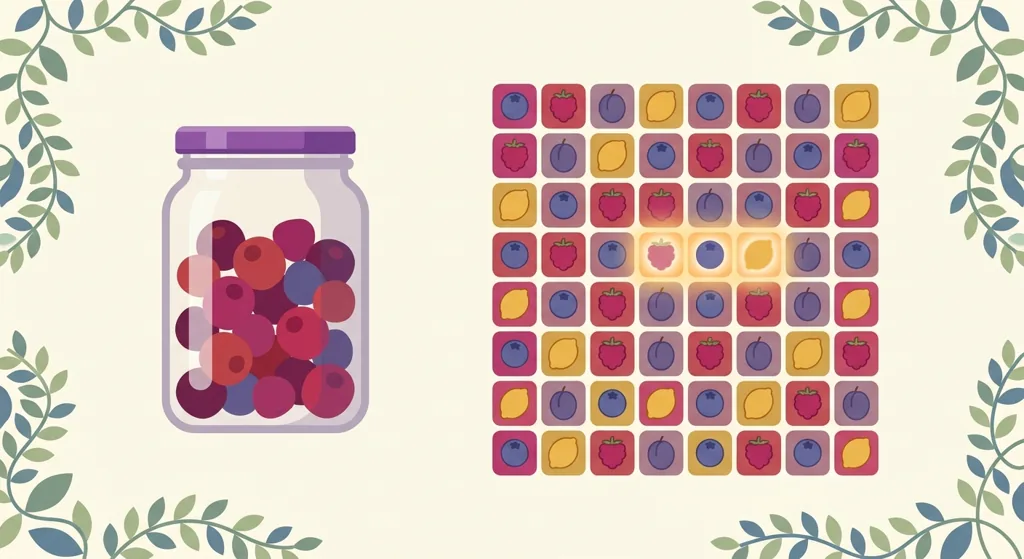
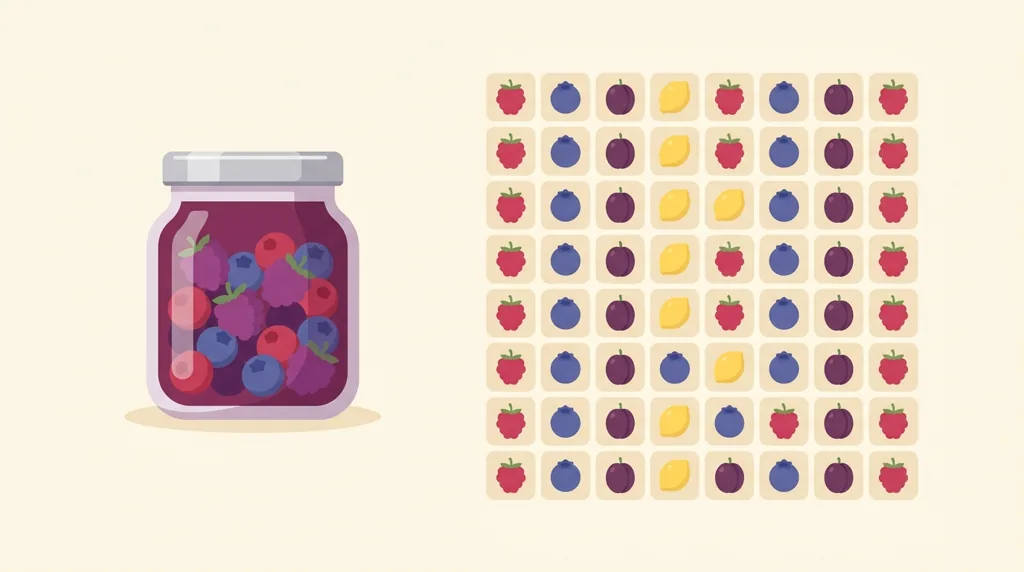
image(jammin-jars): review 2 — score 95 hero PASS
Hero regen (uniform 8x8 grid, no glow/arrow) 95 PASS; applied ALT fix (jar singular + 8×8).
Infographic stays 85 PASS. 06-verification images line finalized.

Claude-Session: https://claude.ai/code/session_01Sf8JcyxDURsaqXRG7UqqVj

diff --git a/VsichkiKazina/articles/2026-09-14-jammin-jars/08-image-review-2.md b/VsichkiKazina/articles/2026-09-14-jammin-jars/08-image-review-2.md
@@ -1,0 +1,31 @@
+# 08 — Image review, pass 2 (regenerated hero)
+
+Regen A (pass-2 review, score 65): 8x8 grid + jar, no arrow — but glowing highlight covered mismatched fruits (contradicts "5+ identical"). No integrity failure. Regenerated again.
+Regen B (pass-3 review, score 95 PASS): uniform 8x8 fruit grid + jam jar, no glow/arrow/text/logos/people; neutral RG tone; grid accurately 64 positions. Kept (best). Applied only suggested ALT fix (jar singular + "8×8").
+
+Infographic jammin-jars-rtp.svg stays at 85 PASS (pass 1, unchanged).
+
+--- VERBATIM VERDICT (regen A, hero, score 65) ---
+
+**Score: 65**
+**Verdict: NEEDS WORK**
+
+**Specific Problems:**
+* **Accuracy (Cluster Pays mechanic):** The glowing highlight in the center of the 8x8 grid implies a winning combination, but it highlights three *different* fruits (a raspberry, a blueberry, and a lemon). The article explicitly states that a win requires "пет или повече еднакви плода" (five or more *identical* fruits). Highlighting three mismatched fruits directly contradicts the text and misrepresents the core game mechanic.
+
+**Concrete, Actionable Fixes:**
+* **For an AI prompt / Image edit:** Modify the image so the glowing highlight covers a cluster of at least **5 identical fruits** (e.g., a connected group of 5 blueberries or 5 lemons touching horizontally/vertically). Remove the glow from any mismatched fruits or groups smaller than 5.
+
+--- VERBATIM VERDICT (regen B, hero, score 95 — KEPT) ---
+
+**Score: 95/100**
+**Verdict:** `PASS`
+
+**Specific Problems:**
+*   **SEO Metadata (Minor inaccuracy):** The ALT text mentions "стилизирани буркани" (stylized jars, plural), but the image only depicts a single jar on the left side. 
+*   Otherwise, this is an excellent, compliant image. It perfectly illustrates the 8×8 grid (exactly 64 positions, matching the text) and the fruit/jar theme without resorting to fake screenshots, copyrighted assets, or glamorized winning elements. The tone is perfectly neutral for a responsible gambling context.
+
+**Concrete, Actionable Fixes:**
+*   **SEO Metadata:** Change the ALT text to use the singular form for the jar to perfectly match the visual. 
+    *   *Current:* `Абстрактна плодова тема със стилизирани буркани и мрежа от съседни плодове по темата на Jammin' Jars`
+    *   *Correction:* `Абстрактна плодова тема със стилизиран буркан и мрежа 8х8 от съседни плодове по темата на Jammin' Jars` (added "8x8" for even better SEO specificity).

diff --git a/VsichkiKazina/articles/2026-09-14-jammin-jars/05b-final-draft.md b/VsichkiKazina/articles/2026-09-14-jammin-jars/05b-final-draft.md
@@ -5,7 +5,7 @@ Meta description: Как работи Jammin' Jars на Push Gaming: cluster pay
 
 # Jammin' Jars: RTP, cluster pays и Rainbow множители
 
-![Абстрактна плодова тема със стилизирани буркани и мрежа от съседни плодове по темата на Jammin' Jars](images/jammin-jars-hero.webp)
+![Абстрактна плодова тема със стилизиран буркан и мрежа 8×8 от съседни плодове по темата на Jammin' Jars](images/jammin-jars-hero.webp)
 
 Jammin' Jars е слот на Push Gaming от 2018 г., едно от заглавията, с които cluster pays влезе в масовия речник на играчите. Полето е 8 на 8, залогът върви от €0.20 до €100, а вместо линии има клъстери от съседни плодове. Определящият символ е бурканът с множител, а най-тлъстите резултати се падат в безплатните завъртания.
 

diff --git a/VsichkiKazina/articles/2026-09-14-jammin-jars/06-verification.md b/VsichkiKazina/articles/2026-09-14-jammin-jars/06-verification.md
@@ -42,4 +42,4 @@ All infographic numbers trace to these and to 05b verbatim.
 Final human-likeness (HL): 90 (PASS) · passes applied: 0 (initial draft passed) · verdict saved in 07-gemini-check-1.md.
 
 ## Images (Step 8)
-images: <TBD>
+images: 2 (infographic 85 PASS, hero 95 PASS). Hero regenerated twice: pass1 35 (RG growth-arrow fail) → pass2 65 (mismatched cluster glow) → pass3 95 (uniform 8×8 grid, no glow/arrow). No integrity failure in the shipped set. Applied hero ALT fix (jar singular + 8×8).
